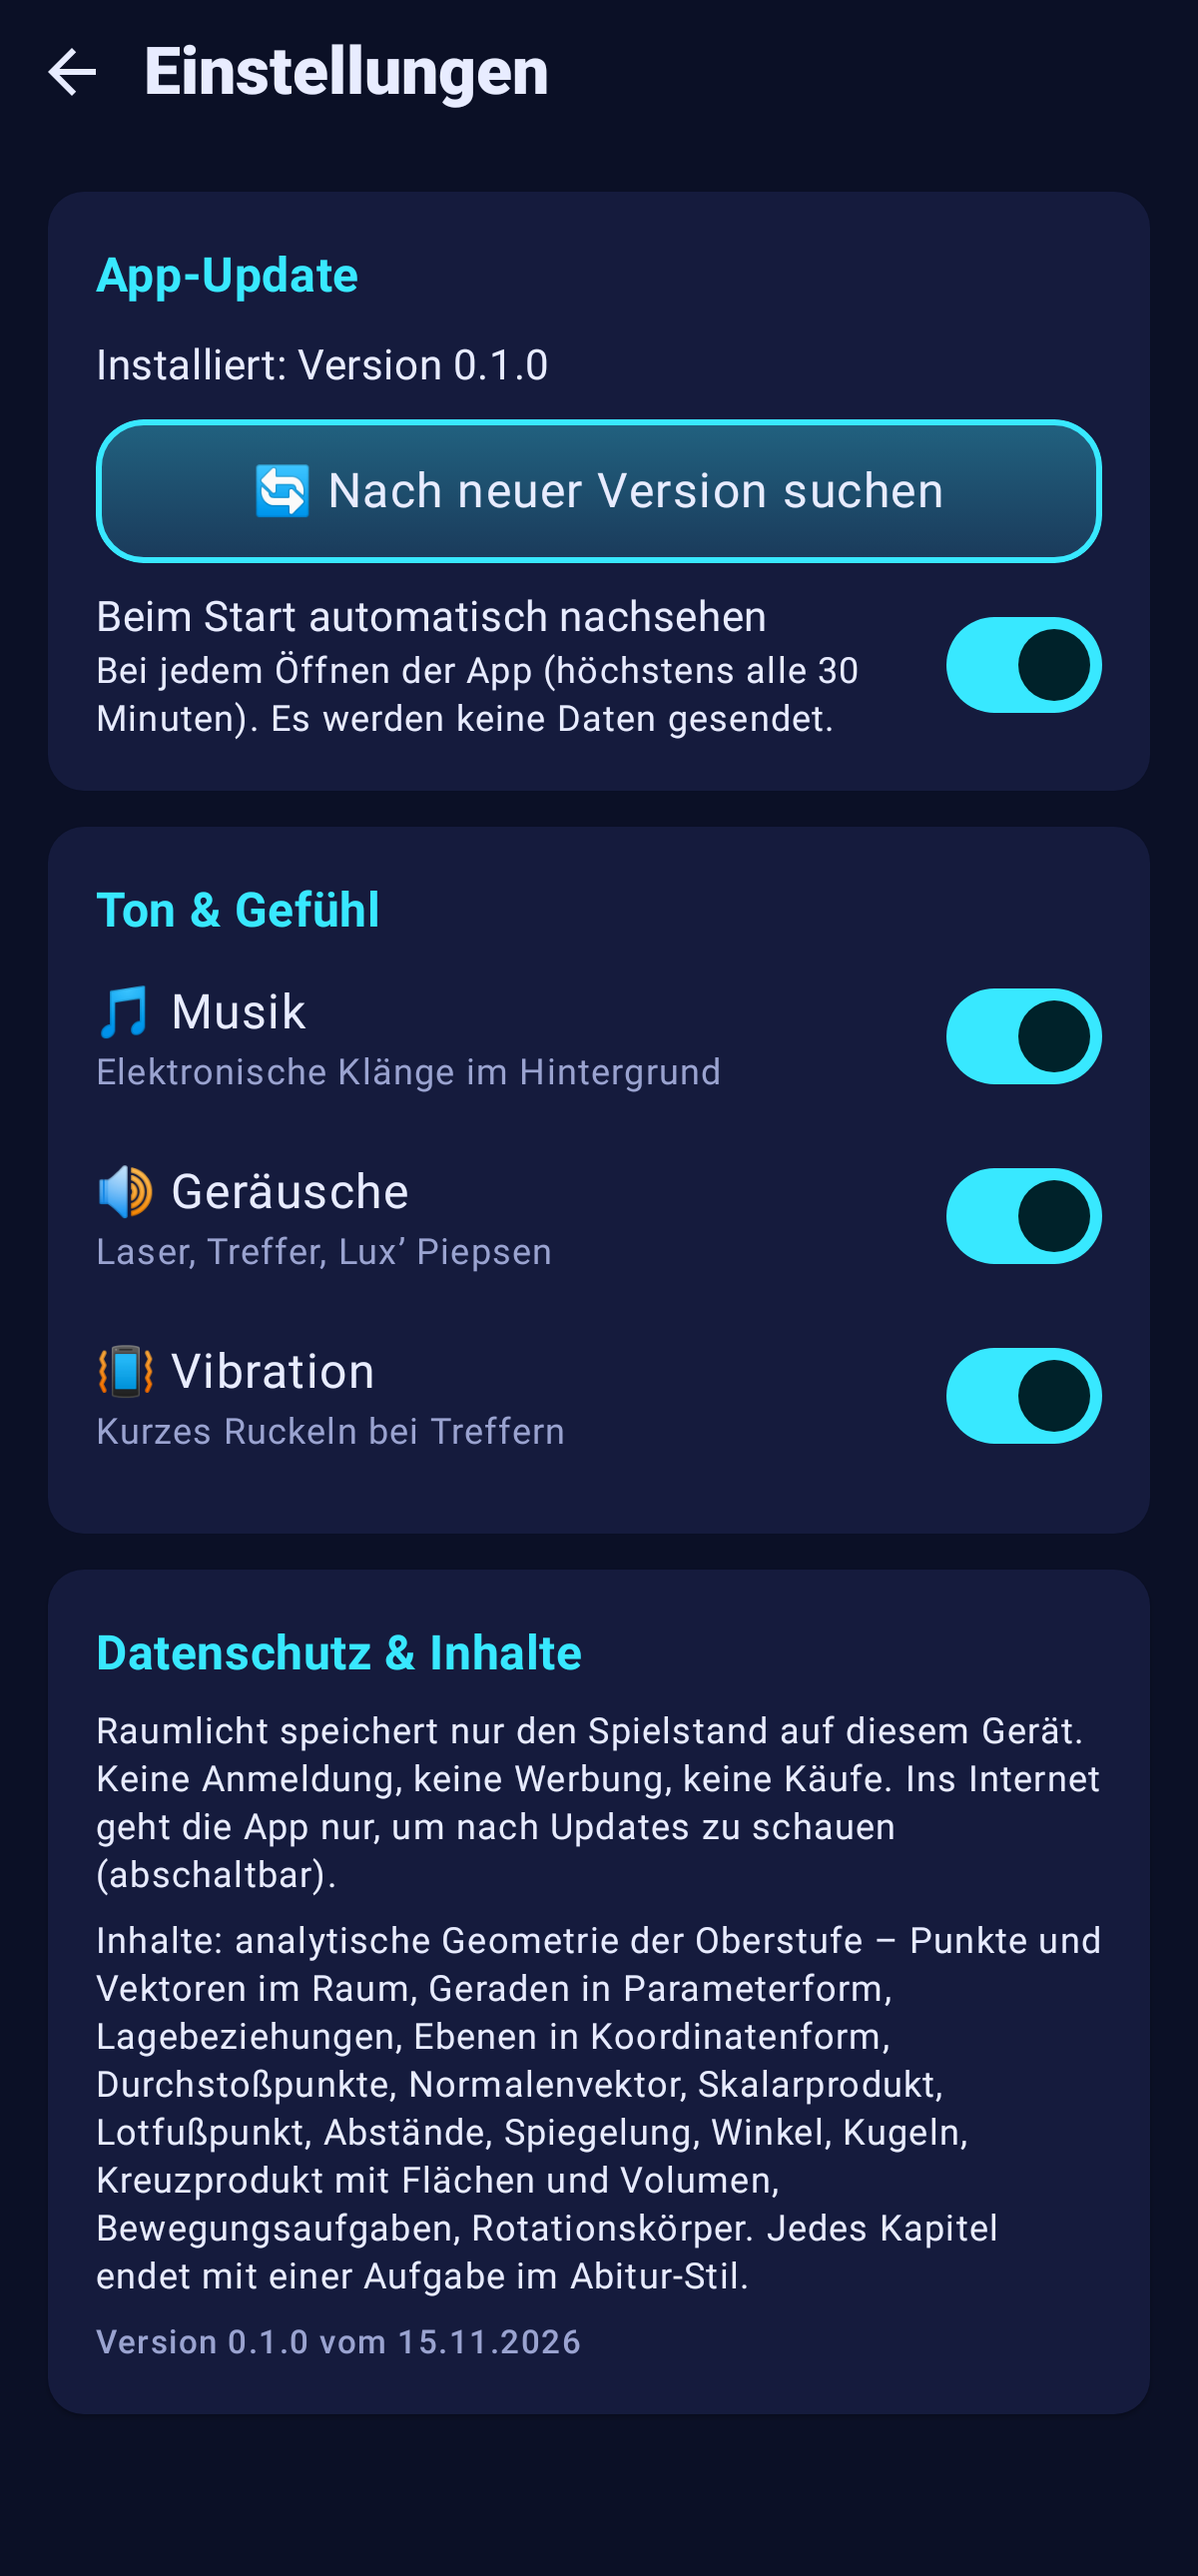
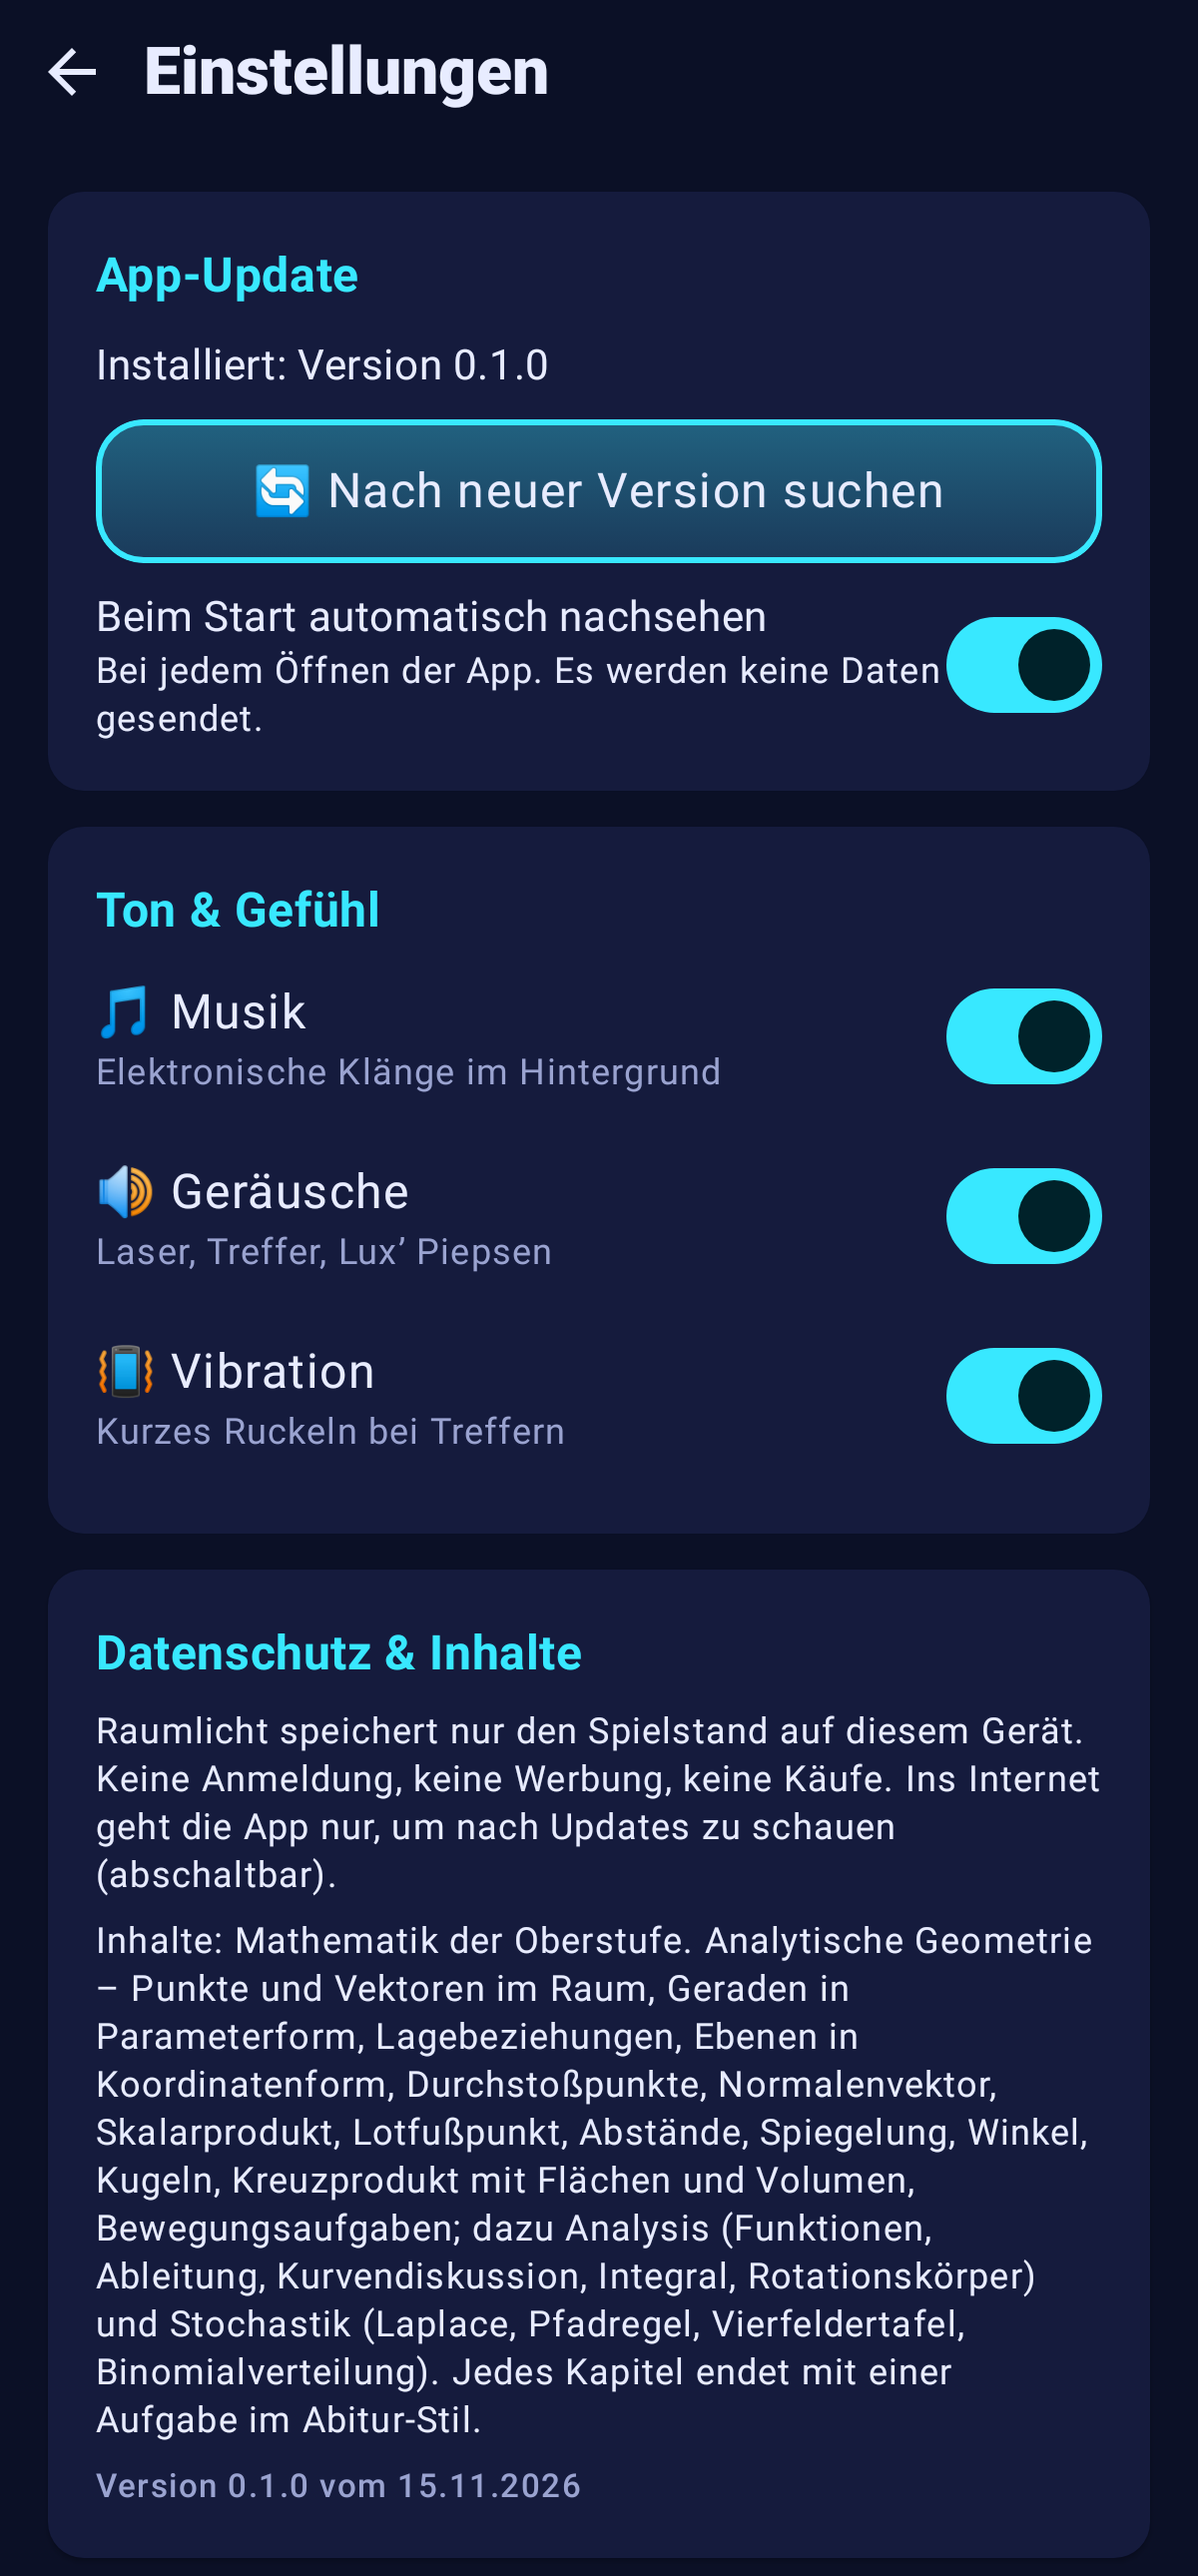
Raumlicht 0.5.3: Fortschritt zurücksetzen
Knopf in den Einstellungen mit Rückfrage: löscht Sterne, Rekorde,
Abi-Punkte, Fehler-Tagebuch und das freigespielte Aussehen von Lux.
Ton-Einstellungen und Klausur-Plan bleiben. Texte in den Einstellungen
an den aktuellen Stand angepasst.

Claude-Session: https://claude.ai/code/session_015vg1TkCEYsXkAEYjbLFPi2

diff --git a/raumlicht/app/src/main/java/de/raumlicht/app/ui/settings/SettingsScreen.kt b/raumlicht/app/src/main/java/de/raumlicht/app/ui/settings/SettingsScreen.kt
@@ -6,7 +6,8 @@ import androidx.compose.foundation.verticalScroll
 import androidx.compose.material.icons.Icons
 import androidx.compose.material.icons.automirrored.filled.ArrowBack
 import androidx.compose.material3.*
-import androidx.compose.runtime.Composable
+import androidx.compose.runtime.*
+import androidx.compose.ui.platform.testTag
 import androidx.compose.ui.Alignment
 import androidx.compose.ui.Modifier
 import androidx.compose.ui.unit.dp
@@ -22,7 +23,9 @@ fun SettingsScreen(
     installed: String,
     update: UpdateState,
     onBack: () -> Unit,
+    onReset: () -> Unit = {},
 ) {
+    var ask by remember { mutableStateOf(false) }; var done by remember { mutableStateOf(false) }
     Column(Modifier.fillMaxSize().systemBarsPadding()) {
         Row(verticalAlignment = Alignment.CenterVertically) {
             IconButton(onClick = onBack) { Icon(Icons.AutoMirrored.Filled.ArrowBack, "Zurück", tint = Q.Text) }
@@ -43,14 +46,29 @@ fun SettingsScreen(
                     Text("Datenschutz & Inhalte", style = MaterialTheme.typography.titleMedium, color = MaterialTheme.colorScheme.primary)
                     Text("Raumlicht speichert nur den Spielstand auf diesem Gerät. Keine Anmeldung, keine Werbung, keine Käufe. " +
                         "Ins Internet geht die App nur, um nach Updates zu schauen (abschaltbar).", style = MaterialTheme.typography.bodySmall)
-                    Text("Inhalte: analytische Geometrie der Oberstufe – Punkte und Vektoren im Raum, Geraden in Parameterform, " +
+                    Text("Inhalte: Mathematik der Oberstufe. Analytische Geometrie – Punkte und Vektoren im Raum, Geraden in Parameterform, " +
                         "Lagebeziehungen, Ebenen in Koordinatenform, Durchstoßpunkte, Normalenvektor, Skalarprodukt, Lotfußpunkt, " +
-                        "Abstände, Spiegelung, Winkel, Kugeln, Kreuzprodukt mit Flächen und Volumen, Bewegungsaufgaben, Rotationskörper. Jedes Kapitel endet mit einer Aufgabe im Abitur-Stil.", style = MaterialTheme.typography.bodySmall)
+                        "Abstände, Spiegelung, Winkel, Kugeln, Kreuzprodukt mit Flächen und Volumen, Bewegungsaufgaben; dazu Analysis (Funktionen, Ableitung, Kurvendiskussion, Integral, Rotationskörper) und Stochastik (Laplace, Pfadregel, Vierfeldertafel, Binomialverteilung). Jedes Kapitel endet mit einer Aufgabe im Abitur-Stil.", style = MaterialTheme.typography.bodySmall)
                     Text("Version $installed vom ${BuildConfig.VERSION_DATE}", style = MaterialTheme.typography.labelSmall, color = Q.Muted)
+                }
+            }
+            ElevatedCard(Modifier.fillMaxWidth()) {
+                Column(Modifier.padding(16.dp), verticalArrangement = Arrangement.spacedBy(8.dp)) {
+                    Text("Neu anfangen", style = MaterialTheme.typography.titleMedium, color = MaterialTheme.colorScheme.primary)
+                    Text(if (done) "✓ Alles zurückgesetzt – du startest wieder bei null." else "Setzt alles zurück, was du bisher gemacht hast: Sterne, Rekorde, Abi-Punkte, Fehler-Tagebuch und Kalender.",
+                        style = MaterialTheme.typography.bodySmall, color = if (done) Q.Green else Q.Muted)
+                    OutlinedButton({ ask = true }, Modifier.testTag("zuruecksetzen"), colors = ButtonDefaults.outlinedButtonColors(contentColor = Q.Orange)) { Text("🧹 Fortschritt zurücksetzen") }
                 }
             }
         }
     }
+    if (ask) AlertDialog(
+        onDismissRequest = { ask = false },
+        title = { Text("Wirklich alles zurücksetzen?") },
+        text = { Text("Alle Sterne, Rekorde, Abi-Punkte, das Fehler-Tagebuch, der Kalender und das freigespielte Aussehen von Lux werden gelöscht. Das lässt sich nicht rückgängig machen.\n\nTon-Einstellungen und dein Klausur-Plan bleiben.") },
+        confirmButton = { TextButton({ ask = false; done = true; onReset() }, Modifier.testTag("zuruecksetzen-ja")) { Text("Ja, zurücksetzen", color = Q.Orange) } },
+        dismissButton = { TextButton({ ask = false }, Modifier.testTag("zuruecksetzen-nein")) { Text("Abbrechen") } },
+    )
 }
 
 @Composable

diff --git a/raumlicht/core/data/src/test/java/de/raumlicht/core/data/ProgressTest.kt b/raumlicht/core/data/src/test/java/de/raumlicht/core/data/ProgressTest.kt
@@ -21,4 +21,19 @@ class ProgressTest {
         assertEquals(3, p.stars); assertEquals(5, p.attempts); assertEquals(42, p.solvedAt)
         db.close()
     }
+
+    @Test fun resetClearsProgressButKeepsSettings() = runTest {
+        val ctx = ApplicationProvider.getApplicationContext<android.content.Context>()
+        val db = StageDatabase.create(ctx, inMemory = true); val repo = ProgressRepository(db.progress())
+        repo.record("1-1", 3, 1); repo.record("2-1", 2, 2)
+        repo.clear(); assertEquals(0, repo.all.first().size)
+        val s = Settings(ctx)
+        s.setSound(false); s.setPlan("plan"); s.recordJam(7); s.recordLage(6); s.recordExam("zelt", 11); s.setDiary("1\t2-1\tx"); s.setSkin("green"); s.setLook("rainbow", "crown"); s.markIntroSeen(3)
+        s.resetProgress()
+        assertEquals(0, s.jamBest.value); assertEquals(0, s.lageBest.value); assertEquals(emptyMap<String, Int>(), s.exams.value); assertEquals("", s.diary.value)
+        assertEquals("pink", s.skin.value); assertEquals("none" to "none", s.look.value); assertEquals(false, s.introSeen(3))
+        assertEquals(false, s.sound.value); assertEquals("plan", s.plan.value)                    // Einstellungen und Plan bleiben
+        val again = Settings(ctx); assertEquals(0, again.jamBest.value); assertEquals(emptyMap<String, Int>(), again.exams.value)   // auch nach Neustart
+        db.close()
+    }
 }

diff --git a/raumlicht/app/src/test/java/de/raumlicht/app/ui/PlayFlowTest.kt b/raumlicht/app/src/test/java/de/raumlicht/app/ui/PlayFlowTest.kt
@@ -122,4 +122,15 @@ class PlayFlowTest {
         assertEquals(42, v.findViewById<android.widget.ProgressBar>(de.raumlicht.app.R.id.learn_bar_0).progress)
         val card = ShareCard.draw("🎪 Festivalzelt", "11 von 12 BE", Exam.verdict(11, 12)); assertEquals(1080, card.width); assertEquals(1080, card.height)
     }
+
+    @Test fun resetAsksFirst() {
+        var resets = 0
+        show { de.raumlicht.app.ui.settings.SettingsScreen(true, {}, true, {}, true, {}, true, {}, "0.5.3", de.raumlicht.app.ui.settings.UpdateState.Idle, {}, onReset = { resets++ }) }
+        rule.onNodeWithTag("zuruecksetzen").performScrollTo().performClick(); rule.mainClock.advanceTimeBy(500)
+        rule.onNodeWithText("Wirklich alles zurücksetzen?").assertExists()
+        rule.onNodeWithTag("zuruecksetzen-nein").performClick(); rule.mainClock.advanceTimeBy(500); assertEquals(0, resets)      // Abbrechen löscht nichts
+        rule.onNodeWithTag("zuruecksetzen").performScrollTo().performClick(); rule.mainClock.advanceTimeBy(500)
+        rule.onNodeWithTag("zuruecksetzen-ja").performClick(); rule.mainClock.advanceTimeBy(500); assertEquals(1, resets)
+        rule.onNodeWithText("✓ Alles zurückgesetzt – du startest wieder bei null.").assertExists()
+    }
 }

diff --git a/raumlicht/core/data/src/main/java/de/raumlicht/core/data/Settings.kt b/raumlicht/core/data/src/main/java/de/raumlicht/core/data/Settings.kt
@@ -70,6 +70,18 @@ class Settings(ctx: Context) {
     val diary: StateFlow<String> = _diary.asStateFlow()
     fun setDiary(s: String) { prefs.edit().putString("diary", s).apply(); _diary.value = s }
 
+    /**
+     * Neu anfangen: Rekorde, Abi-Punkte, Fehler-Tagebuch, gesehene Erklärungen und das freigespielte Aussehen von Lux zurücksetzen.
+     * Ton-, Update-Einstellungen, Klausur-Plan und die gebaute Show bleiben.
+     */
+    fun resetProgress() {
+        val e = prefs.edit()
+        prefs.all.keys.filter { it.startsWith("intro_") || it.startsWith("exam_") }.forEach { e.remove(it) }
+        listOf("jamBest", "lageBest", "diary", "skin", "trail", "hat").forEach { e.remove(it) }
+        e.apply()
+        _jamBest.value = 0; _lageBest.value = 0; _exams.value = emptyMap(); _diary.value = ""; _skin.value = "pink"; _look.value = "none" to "none"
+    }
+
     /** Klausur-Planer: Termin und Kapitel (leer = kein Plan) */
     private val _plan = MutableStateFlow(prefs.getString("plan", "") ?: "")
     val plan: StateFlow<String> = _plan.asStateFlow()

diff --git a/raumlicht/core/data/src/main/java/de/raumlicht/core/data/Progress.kt b/raumlicht/core/data/src/main/java/de/raumlicht/core/data/Progress.kt
@@ -18,6 +18,7 @@ interface ProgressDao {
     @Query("SELECT * FROM progress") fun all(): Flow<List<LevelProgress>>
     @Query("SELECT * FROM progress WHERE levelId = :id") suspend fun get(id: String): LevelProgress?
     @Upsert suspend fun put(p: LevelProgress)
+    @Query("DELETE FROM progress") suspend fun clear()
 }
 
 @Database(entities = [LevelProgress::class], version = 1, exportSchema = true)
@@ -34,6 +35,9 @@ abstract class StageDatabase : RoomDatabase() {
 /** Speichert Ergebnisse – das Beste bleibt (Sterne sinken nie). */
 class ProgressRepository(private val dao: ProgressDao, private val clock: () -> Long = System::currentTimeMillis) {
     val all: Flow<List<LevelProgress>> = dao.all()
+
+    /** Neu anfangen: alle Sterne und Versuche löschen (nur auf ausdrücklichen Wunsch) */
+    suspend fun clear() = dao.clear()
 
     suspend fun record(levelId: String, stars: Int, attempts: Int) {
         val old = dao.get(levelId)

diff --git a/raumlicht/app/src/main/java/de/raumlicht/app/AppViewModel.kt b/raumlicht/app/src/main/java/de/raumlicht/app/AppViewModel.kt
@@ -23,6 +23,12 @@ class AppViewModel(app: Application) : AndroidViewModel(app) {
         viewModelScope.launch { c.progress.record(levelId, stars, attempts); de.raumlicht.app.widget.DailyWidget.refresh(getApplication()); de.raumlicht.app.widget.LearnWidget.refresh(getApplication()) }
     }
 
+    /** Neu anfangen: Sterne, Rekorde und Tagebuch löschen – nur nach Rückfrage in den Einstellungen */
+    fun resetAll() {
+        settings.resetProgress()
+        viewModelScope.launch { c.progress.clear(); de.raumlicht.app.widget.DailyWidget.refresh(getApplication()); de.raumlicht.app.widget.LearnWidget.refresh(getApplication()) }
+    }
+
     // ------------------------------------------------------------ App-Update
     private val _update = MutableStateFlow<AppRelease?>(null)
     val availableUpdate: StateFlow<AppRelease?> = _update

diff --git a/raumlicht/app/src/main/java/de/raumlicht/app/ui/settings/UpdateSection.kt b/raumlicht/app/src/main/java/de/raumlicht/app/ui/settings/UpdateSection.kt
@@ -102,7 +102,7 @@ fun UpdateSection(
                             if (onAutoCheck != null) Row(verticalAlignment = Alignment.CenterVertically) {
                                 Column(Modifier.weight(1f)) {
                                     Text("Beim Start automatisch nachsehen", style = MaterialTheme.typography.bodyMedium)
-                                    Text("Bei jedem Öffnen der App (höchstens alle 30 Minuten). Es werden keine Daten gesendet.", style = MaterialTheme.typography.bodySmall)
+                                    Text("Bei jedem Öffnen der App. Es werden keine Daten gesendet.", style = MaterialTheme.typography.bodySmall)
                                 }
                                 Switch(autoCheck, onAutoCheck)
                             }

diff --git a/raumlicht/app/src/main/java/de/raumlicht/app/MainActivity.kt b/raumlicht/app/src/main/java/de/raumlicht/app/MainActivity.kt
@@ -262,7 +262,7 @@ class MainActivity : ComponentActivity() {
                 val music by vm.settings.music.collectAsStateWithLifecycle()
                 val auto by vm.settings.autoUpdate.collectAsStateWithLifecycle()
                 SettingsScreen(music, vm.settings::setMusic, sound, vm.settings::setSound, vibration, vm.settings::setVibration, auto, vm.settings::setAutoUpdate,
-                    BuildConfig.VERSION_NAME, update?.let { UpdateState.Available(it) } ?: UpdateState.Idle, { nav.popSafe() })
+                    BuildConfig.VERSION_NAME, update?.let { UpdateState.Available(it) } ?: UpdateState.Idle, { nav.popSafe() }, onReset = vm::resetAll)
             }
         }
         }

diff --git a/docs/APP-IDEEN.md b/docs/APP-IDEEN.md
@@ -18,7 +18,7 @@ Reihenfolge: eine App fertig optimieren, dann die nächste. Das Rechnen ist jewe
 
 | App | Spielprinzip | Inhalte | Status |
 |---|---|---|---|
-| 💡 **Raumlicht** (`raumlicht/`) | Mathe-Abi in echtem 3D: Laser = Geraden, Glas = Ebenen, Drohne Lux fliegt Vektoren; Kurven fährt man als Achterbahn ab, Zufall fällt durchs Galton-Brett | Geometrie, Analysis und Stochastik (89 Aufgaben, 17 Kapitel); Fahrersicht für Kurven und Geraden, Galton-Brett, Abi-Aufgaben, Rechenweg in Schritten, Endlos üben, Ohne Hilfsmittel, Fehler-Tagebuch, Klausur-Planer, Duell, Klasse, 3D-Rechner, 2 Widgets | ✅ 0.5.2 (15.11.2026) |
+| 💡 **Raumlicht** (`raumlicht/`) | Mathe-Abi in echtem 3D: Laser = Geraden, Glas = Ebenen, Drohne Lux fliegt Vektoren; Kurven fährt man als Achterbahn ab, Zufall fällt durchs Galton-Brett | Geometrie, Analysis und Stochastik (89 Aufgaben, 17 Kapitel); Fahrersicht für Kurven und Geraden, Galton-Brett, Abi-Aufgaben, Rechenweg in Schritten, Endlos üben, Ohne Hilfsmittel, Fehler-Tagebuch, Klausur-Planer, Duell, Klasse, 3D-Rechner, 2 Widgets | ✅ 0.5.3 (15.11.2026) |
 
 Ideen für später: weitere Abi-Simulationen (auch auf Zeit), Jam für Bewegung und Kugeln, mehr Analysis in 3D (Flächen, Extremwerte), Stochastik, Klassen-Modus für Lehrkräfte.
 

diff --git a/raumlicht/CHANGELOG.md b/raumlicht/CHANGELOG.md
@@ -2,6 +2,10 @@
 
 Jede Version steht hier mit ihrem Datum.
 
+## 0.5.3 – Neu anfangen (15.11.2026)
+- **🧹 Fortschritt zurücksetzen:** In den Einstellungen gibt es jetzt einen Knopf, der alles Bisherige löscht – Sterne, Rekorde, Abi-Punkte,
+  Fehler-Tagebuch, Kalender und das freigespielte Aussehen von Lux. Vorher wird nachgefragt; Ton-Einstellungen und Klausur-Plan bleiben.
+
 ## 0.5.2 – Jedes Gebiet mit passender Bühne (15.11.2026)
 - **Raumachsen nur noch bei Vektoren:** Das dreidimensionale Koordinatensystem x₁/x₂/x₃ gibt es nur noch in der Geometrie.
 - **Analysis überall eben:** Auch die Rotationskörper haben jetzt das x-y-Achsenkreuz ihrer Kurve.
